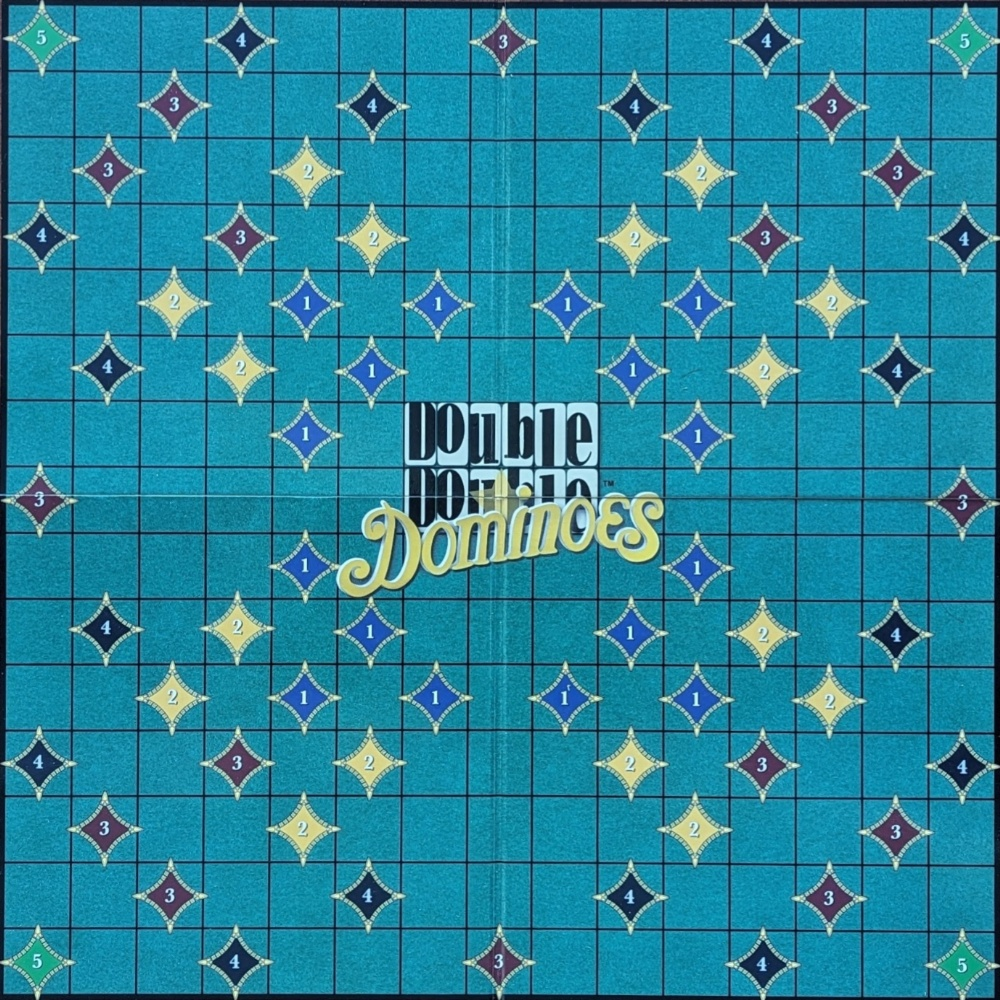
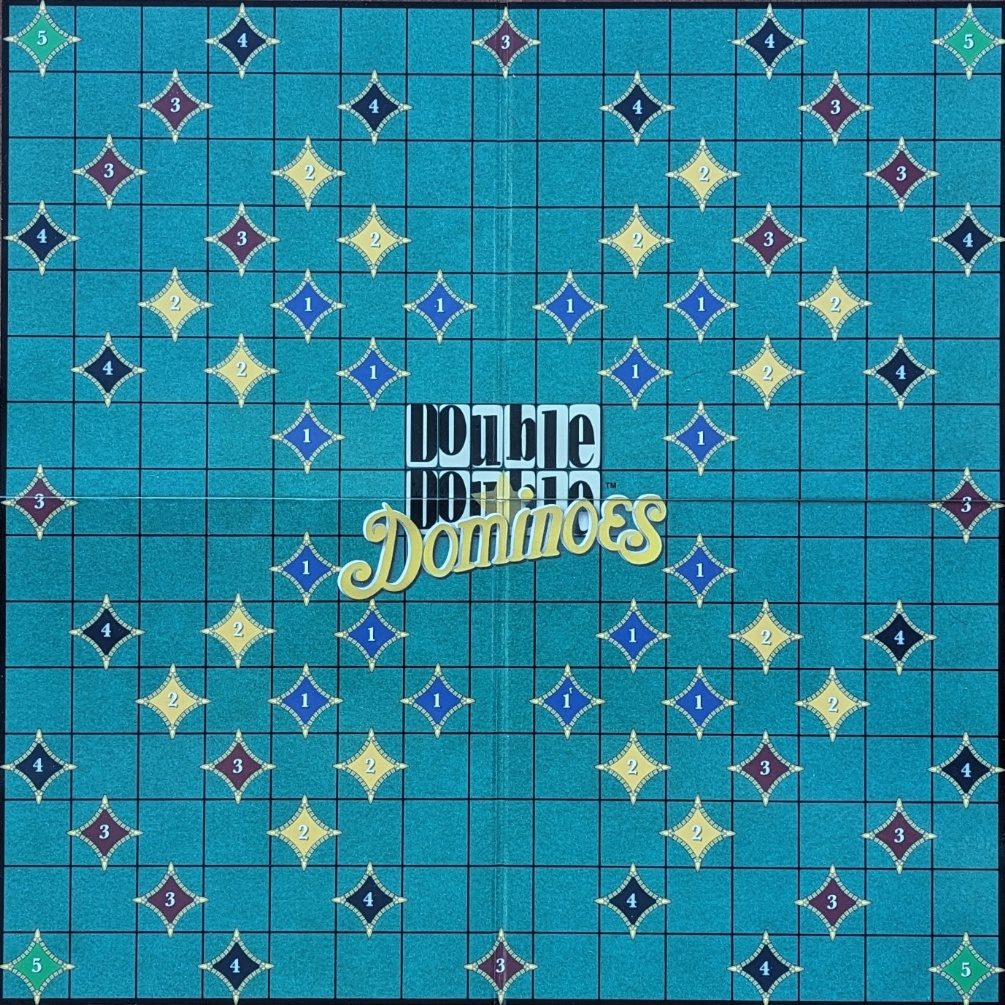
detect black circles

diff --git a/main.py b/main.py
@@ -1,4 +1,6 @@
 import cv2
+import matplotlib.pyplot as plt
+import numpy as np
 
 from utility import *
 from imports import *
@@ -9,6 +11,12 @@ from dataloader import *
 # imagePath = "decupari/1_20.jpg"
 imagePath = "linii/1_19.jpg"
 # imagePath = "imagini_auxiliare/01.jpg"
+# imagePath = "diferente/3_15.jpg"
+# imagePath = "diferente/1_17.jpg"
+# imagePath = "diferente/1_01.jpg"
+
+
+# imagePath = "diferente/1_01.jpg"
 
 def find_color_values_using_trackbar(frame):
     frame_hsv = cv.cvtColor(frame, cv.COLOR_BGR2HSV)
@@ -40,7 +48,6 @@ def find_color_values_using_trackbar(frame):
         frame = cv.resize(frame, (400, 400))
         mask_table_hsv = cv.resize(mask_table_hsv, (400, 400))
 
-
         res = cv.bitwise_and(frame, frame, mask=mask_table_hsv)
         cv.imshow("Frame", frame)
         cv.imshow("Mask", mask_table_hsv)
@@ -50,21 +57,49 @@ def find_color_values_using_trackbar(frame):
             break
     cv.destroyAllWindows()
 
+
 board = cv.imread(imagePath)
 # board, patrat = Preprocessing(board).extractGameBoard()
 # find_color_values_using_trackbar(board)
 # cv2.imwrite("emptyBoard.jpg", patrat)
-
+#
 # find_color_values_using_trackbar(board)
-# showImage(board)
+# # showImage(board)
 dataset = DataLoader().games
 
+dic = {1: 'A', 2: 'B', 3: 'C', 4: 'D', 5: 'E', 6: 'F', 7: 'G', 8: 'H', 9: 'I', 10: 'J', 11: 'K', 12: 'L', 13: 'M',
+       14: 'N', 15: 'O'}
+
+cerc = cv.imread("circle.png")
+
 for i in range(5):
-    for j in range(1,21):
+    for j in range(1, 21):
         cv.imwrite(f"decupari/{i + 1}_{str(j).zfill(2)}.jpg", dataset[i][j])
 
+        # d1 = cv.inRange(cv.cvtColor(dataset[i][j], cv.COLOR_BGR2HSV), np.array([50, 0, 215]), np.array([255, 255, 255]))
+        # d2 = cv.inRange(cv.cvtColor(dataset[i][j - 1], cv.COLOR_BGR2HSV), np.array([50, 0, 215]), np.array([255, 255, 255]))
+
+
+        # d1 = cv.inRange(cv.cvtColor(dataset[i][j], cv.COLOR_BGR2HSV), np.array([0, 0, 230]), np.array([255, 255, 255]))
+        # d2 = cv.inRange(cv.cvtColor(dataset[i][j - 1], cv.COLOR_BGR2HSV), np.array([0, 0, 230]), np.array([255, 255, 255]))
+        #
+        # kernel = np.ones((5, 5), np.uint8)
+        # d1 = cv.erode(d1, kernel, iterations=1)
+        # d2 = cv.erode(d2, kernel, iterations=1)
+        #
+        # kernel = np.ones((5, 5), np.uint8)
+        # d1 = cv.dilate(d1, kernel, iterations=1)
+        # d2 = cv.dilate(d2, kernel, iterations=1)
+        #
+        # diff = d1 - d2
+        # kernel = np.ones((5, 5), np.uint8)
+        # diff = cv.erode(diff, kernel, iterations=1)
+        #
+        # kernel = np.ones((10, 10), np.uint8)
+        # diff = cv.dilate(diff, kernel, iterations=1)
+
         d1 = cv.inRange(cv.cvtColor(dataset[i][j], cv.COLOR_BGR2HSV), np.array([50, 0, 215]), np.array([255, 255, 255]))
-        d2 = cv.inRange(cv.cvtColor(dataset[i][j-1], cv.COLOR_BGR2HSV), np.array([50, 0, 215]), np.array([255, 255, 255]))
+        d2 = cv.inRange(cv.cvtColor(dataset[i][j - 1], cv.COLOR_BGR2HSV), np.array([50, 0, 215]), np.array([255, 255, 255]))
 
         diff = d1 - d2
 
@@ -73,17 +108,109 @@ for i in range(5):
         kernel = np.ones((2, 2), np.uint8)
         diff = cv.erode(diff, kernel, iterations=2)
 
-
         kernel = np.ones((15, 15), np.uint8)
         diff = cv.dilate(diff, kernel, iterations=3)
 
         kernel = np.ones((15, 15), np.uint8)
         diff = cv.erode(diff, kernel, iterations=2)
 
+
         contours, hierarchy = cv.findContours(diff, cv.RETR_EXTERNAL, cv.CHAIN_APPROX_NONE)
 
-        boundRect = cv.boundingRect(contours[0])
-        # daaa = cv.drawContours(dataset[i][j], contours,  -1, (0, 0, 255), 3)
-        daaa = cv.rectangle(dataset[i][j], (int(boundRect[0]), int(boundRect[1])), (int(boundRect[0]+boundRect[2]), int(boundRect[1]+boundRect[3])), (0, 0, 255), 2)
-        cv.imwrite(f"diferente/{i + 1}_{str(j).zfill(2)}.jpg", daaa)
+        boundRectDomino = None
+        maxArea = -1
+        for c in contours:
+            boundRect = cv.boundingRect(c)
+            if boundRect[2] * boundRect[3] > maxArea:
+                maxArea = boundRect[2] * boundRect[3]
+                boundRectDomino = boundRect
 
+
+        # daaa = cv.drawContours(dataset[i][j], contours,  -1, (0, 0, 255), 3)
+
+        # if len(contours) > 1:
+        #     plt.imshow(diff, cmap='gray')
+        #     plt.show()
+        #
+        #     plt.imshow(daaa)
+        #     plt.show()
+        daaa = cv.rectangle(dataset[i][j].copy(), (int(boundRectDomino[0]), int(boundRectDomino[1])),
+                            (int(boundRectDomino[0] + boundRectDomino[2]), int(boundRectDomino[1] + boundRectDomino[3])), (0, 0, 255), 2)
+        img = dataset[i][j]
+        piece = img[int(boundRectDomino[1]):int(boundRectDomino[1] + boundRectDomino[3]),
+                int(boundRectDomino[0]):int(boundRectDomino[0] + boundRectDomino[2]), :].copy()
+
+
+        # cercuri = cv.inRange(cv.cvtColor(piece, cv.COLOR_BGR2HSV), np.array([0, 0, 0]), np.array([255, 255, 90]))
+        # kernel = np.ones((5, 5), np.uint8)
+        # cercuri = cv.erode(cercuri, kernel, iterations=1)
+        #
+        # ret, cercuri = cv.threshold(cercuri, 127, 255, 0)
+        #
+        # contours, hierarchy = cv.findContours(cercuri, cv.RETR_TREE, cv.CHAIN_APPROX_SIMPLE)
+        #
+        # circleContours = []
+        #
+        # for c in contours:
+        #     approx = cv.approxPolyDP(c, 0.02 * cv.arcLength(c, True), True)
+        #     aux = len(approx)
+        #
+        #     if len(approx) >= 7:
+        #         circleContours.append(c)
+        #
+        #
+
+
+        h, w, _ = cerc.shape
+        res = cv.matchTemplate(piece, cerc, cv.TM_CCOEFF_NORMED)
+        threshold = 0.8
+        loc = np.where( res >= threshold)
+
+        for pt in zip(*loc[::-1]):
+            piece = cv.rectangle(piece, pt, (pt[0] + w, pt[1] + h), (0, 0, 255), 2)
+
+        cv.imwrite(f"diferente/{i + 1}_{str(j).zfill(2)}.jpg", piece)
+
+        # piece = cv.drawContours(piece, circleContours, -1, (0, 0, 255), 3)
+
+
+
+        # circles = cv.HoughCircles(cercuri, cv.HOUGH_GRADIENT_ALT, 1, 5, param1=30, param2=0.75, minRadius=0, maxRadius=0)
+        #
+        # if circles is not None:
+        #
+        #     circles = np.uint16(np.around(circles))
+        #
+        #     for k in circles[0, :]:
+        #         piece = cv.circle(piece, (k[0], k[1]), 2, (0, 0, 255), 4)
+
+        # cv.imwrite(f"diferente/{i + 1}_{str(j).zfill(2)}.jpg", 255 * res)
+        # cv.imwrite(f"diferente/{i + 1}_{str(j).zfill(2)}.jpg", daaa)
+
+        # highest = None
+        # max = -1
+        # for ii in range(15):
+        #     for jl in range(15):
+        #         val = np.sum(diff[ii * 67:(ii + 1) * 67, jl * 67:(jl + 1) * 67])
+        #         if val > max:
+        #             max = val
+        #             highest = (ii, jl)
+        #
+        # diff[highest[0] * 67:(highest[0] + 1) * 67, highest[1] * 67:(highest[1] + 1) * 67] = 0
+        #
+        # secondHighest = None
+        # max = -1
+        #
+        # for ii in range(15):
+        #     for jl in range(15):
+        #         val = np.sum(diff[ii * 67:(ii + 1) * 67, jl * 67:(jl + 1) * 67])
+        #         if val > max:
+        #             max = val
+        #             secondHighest = (ii, jl)
+        #
+        # highest = (highest[0] + 1, highest[1] + 1)
+        # secondHighest = (secondHighest[0] + 1, secondHighest[1] + 1)
+        #
+        # print(highest[0], dic[highest[1]])
+        # print(secondHighest[0], dic[secondHighest[1]])
+        # print()

diff --git a/preprocess.py b/preprocess.py
@@ -104,10 +104,10 @@ class Preprocessing:
         up += h // 2
         down += h // 2
 
-        left = int(left)
-        right = int(right)
-        up = int(up)
-        down = int(down)
+        left = int(left) - 15
+        right = int(right) + 15
+        up = int(up) - 15
+        down = int(down) + 15
 
         # imgCopy = cv.line(imgCopy, (left, 0), (left, 2000), (0, 0, 255), 3)
         # imgCopy = cv.line(imgCopy, (right, 0), (right, 2000), (0, 0, 255), 3)
@@ -116,11 +116,11 @@ class Preprocessing:
 
 
         srcPoints = np.float32([[left, up], [right, up], [right, down], [left, down]])
-        dstPoints = np.float32([[0, 0], [1000, 0], [1000, 1000], [0, 1000]])
+        dstPoints = np.float32([[0, 0], [1005, 0], [1005, 1005], [0, 1005]])
 
         M = cv.getPerspectiveTransform(srcPoints, dstPoints)
 
-        imgCopy = cv.warpPerspective(imgCopy, M, (1000, 1000))
+        imgCopy = cv.warpPerspective(imgCopy, M, (1005, 1005))
         # cercuri = cv.inRange(cv.cvtColor(imgCopy, cv.COLOR_BGR2HSV), np.array([0, 0, 220]), np.array([255, 255, 255]))
         #
         # circles = cv.HoughCircles(cercuri, cv.HOUGH_GRADIENT, 1, 1, param1=40, param2=15, minRadius=0, maxRadius=30)
